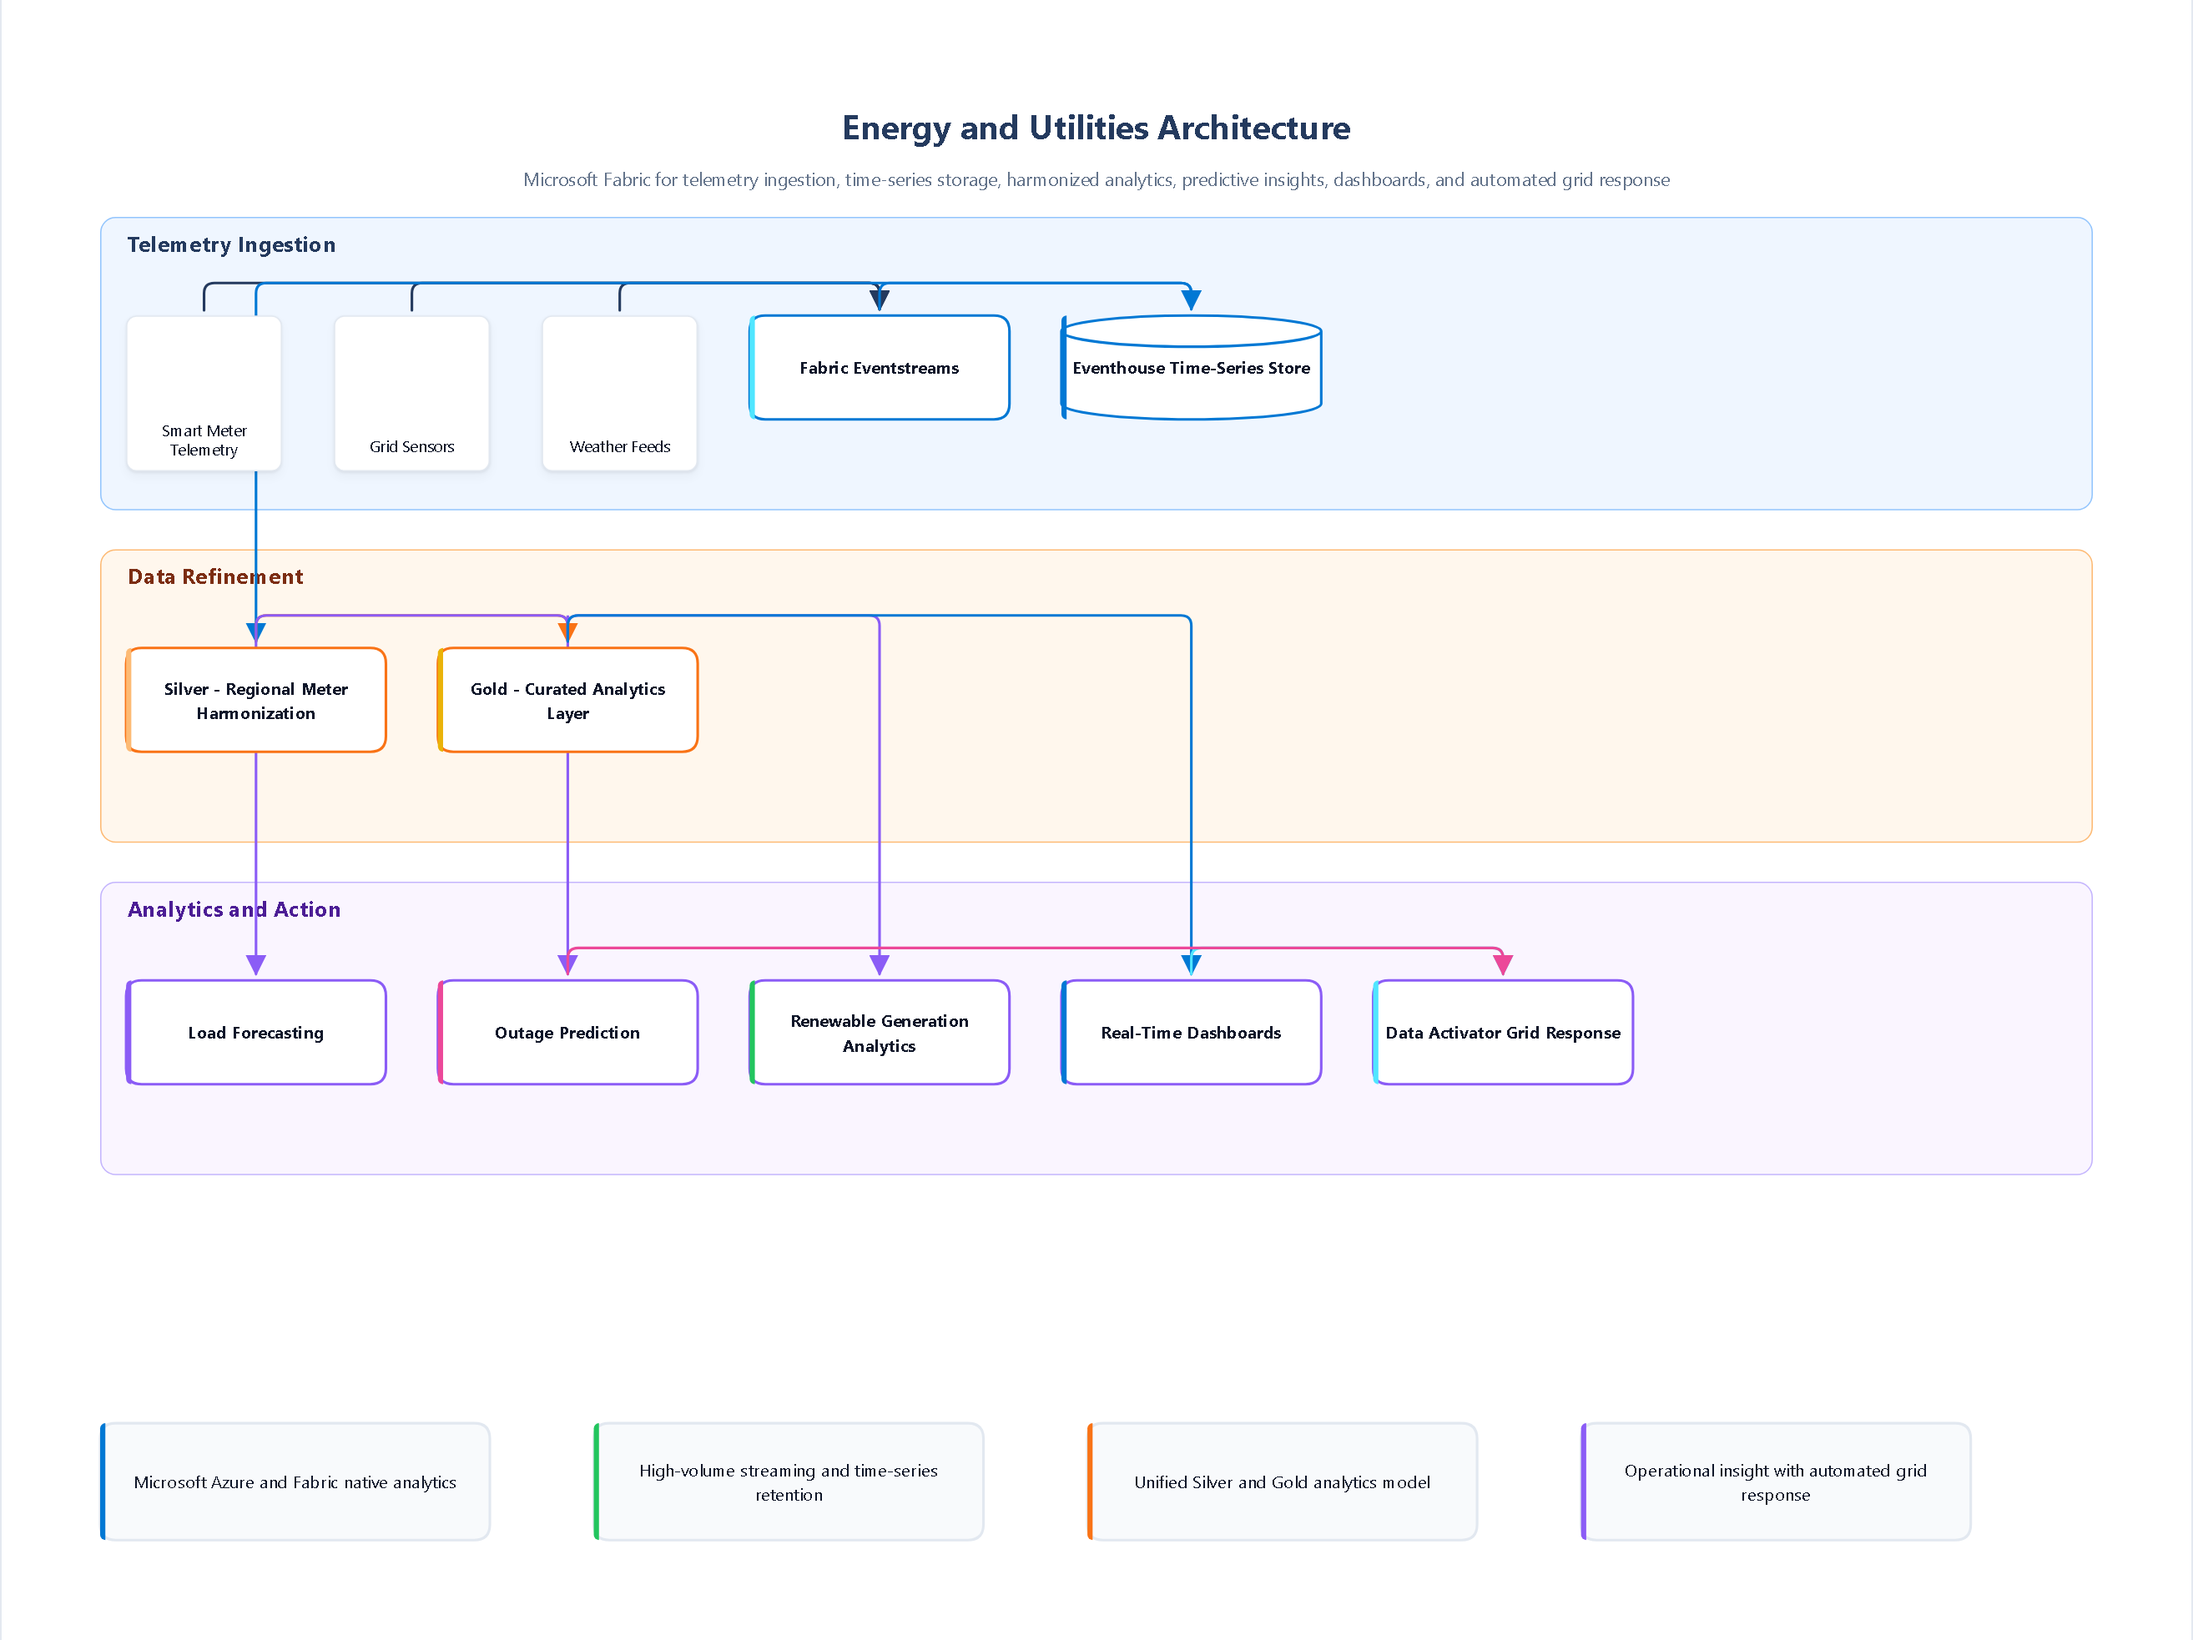
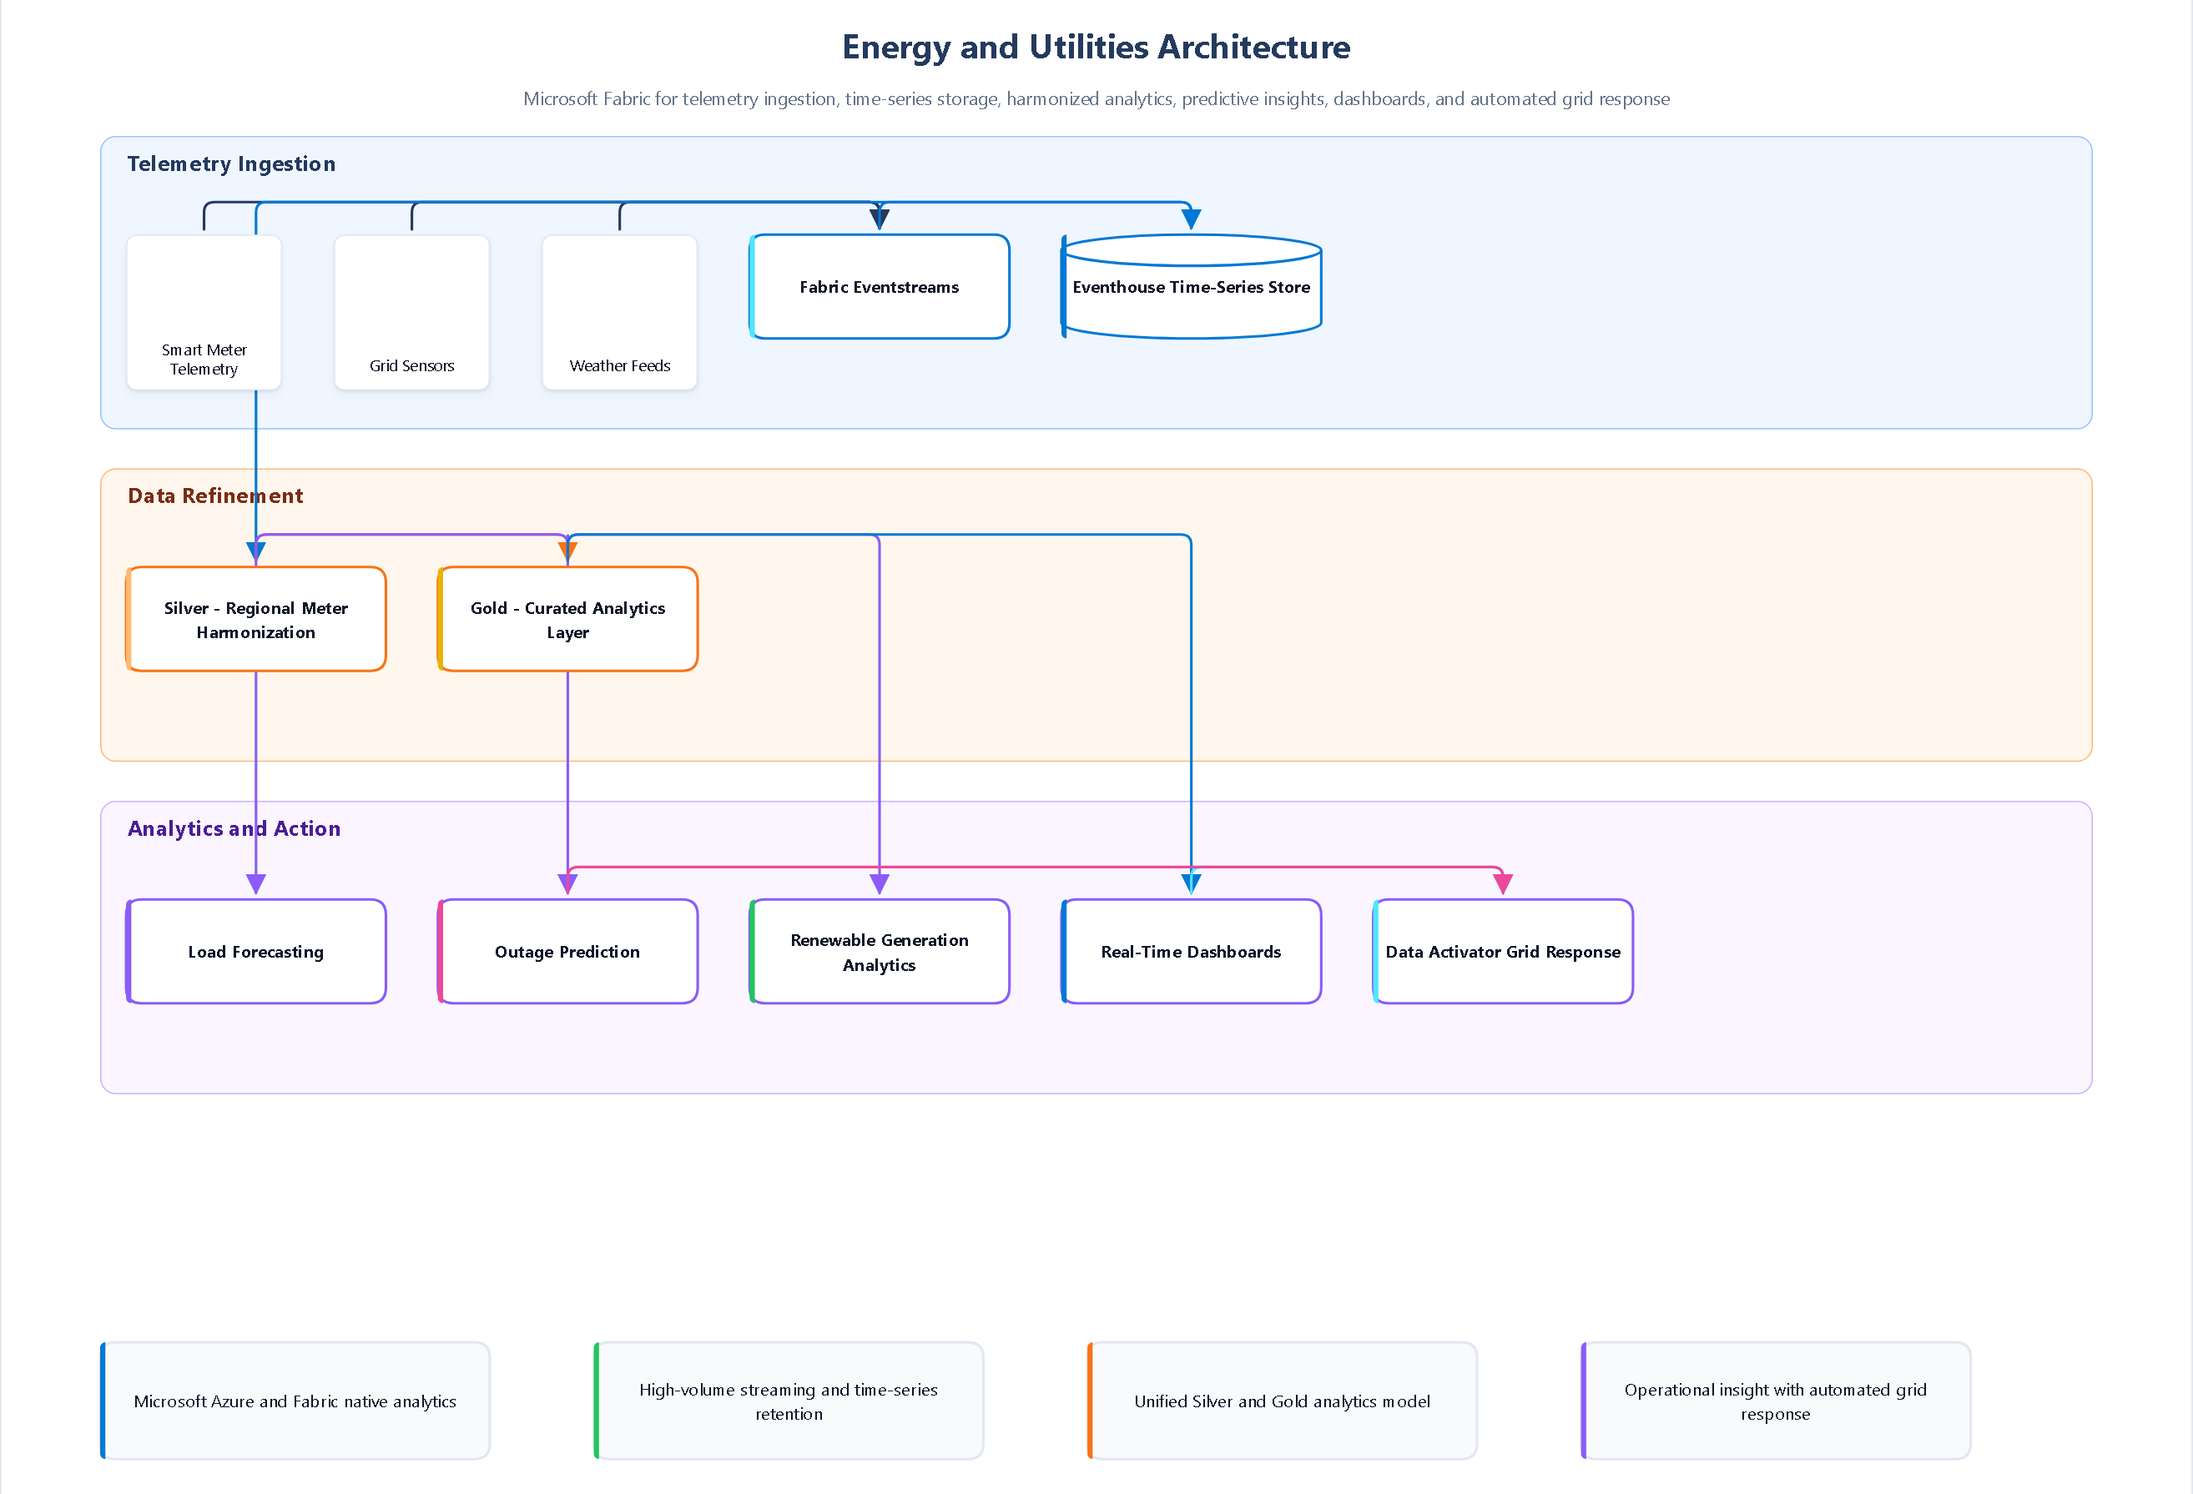
fix(docs): pull back inline architecture diagrams (LLM layouts too sparse)
User feedback after live review: the embedded atlas-diag architecture
diagrams looked poor on the rendered pages — too much vertical real
estate dominated by sparse LLM layouts (caption cards drifted far below
the main flow, zones with only 1-2 nodes, etc.).

Changes:
- Remove the inline architecture-diagram embeds from 20 pages
  (homepage, ARCHITECTURE, 5 feature pages, 4 reference-architecture
  pages, 5 industry pages, 5 notebook layer guides).
- Hero banners stay — they look clean and render well at the top of each
  landing page (home, architecture, features, use-cases, tutorials, and
  the 6 industries).
- Trim PNG whitespace (temp/atlas/trim_v2.py): each PNG had ~175px of
  trailing empty rows past the dense content; now 2628x1791 (was 1966).
- CSS: cap .architecture-diagram at max-height 560px with object-fit
  contain, and add aspect-ratio + larger shadow to .hero-banner for a
  more prominent feel.

Diagrams themselves remain in docs/assets/diagrams/ and are still
editable in atlas-diag's Library (diagram IDs in temp/atlas/manifest.json).
Re-embed individually after refining prompts or manually editing layout.

diff --git a/docs/stylesheets/extra.css b/docs/stylesheets/extra.css
@@ -11,27 +11,47 @@
 /* Hero banner (top of section index pages) */
 .hero-banner {
   width: 100%;
-  max-width: 1200px;
-  margin: 0 0 1.5rem 0;
-  border-radius: 12px;
-  box-shadow: 0 6px 24px rgba(15, 23, 42, 0.12);
+  max-width: 1280px;
+  margin: 0 0 2rem 0;
+  border-radius: 14px;
+  box-shadow: 0 10px 30px rgba(15, 23, 42, 0.18);
   display: block;
+  aspect-ratio: 1200 / 320;
+  object-fit: cover;
 }
 
-/* Architecture diagrams (inline page content) */
+/* Architecture diagrams (inline page content) — cap visual height so the
+   diagram doesn't dominate the viewport on long pages */
 .architecture-diagram {
+  max-width: 100%;
   width: 100%;
-  max-width: 1100px;
-  margin: 1rem auto;
+  max-height: 560px;
+  margin: 1rem auto 1.5rem;
   display: block;
-  border-radius: 8px;
+  border-radius: 10px;
   background: #ffffff;
-  padding: 0.5rem;
-  box-shadow: 0 2px 8px rgba(15, 23, 42, 0.08);
+  padding: 1rem;
+  box-shadow: 0 2px 10px rgba(15, 23, 42, 0.08);
+  object-fit: contain;
+  cursor: zoom-in;
 }
 
 [data-md-color-scheme="slate"] .architecture-diagram {
-  background: #f8fafc;
+  background: #ffffff;
+}
+
+/* Open diagram in new tab when clicked */
+a:has(> img.architecture-diagram) {
+  display: block;
+  text-decoration: none;
+}
+
+/* Small inline service icons (used inline with text) */
+img.service-icon {
+  width: 1.1em;
+  height: 1.1em;
+  vertical-align: -0.2em;
+  margin-right: 0.25em;
 }
 
 /* Dark mode adjustments */

diff --git a/notebooks/silver/README.md b/notebooks/silver/README.md
@@ -4,7 +4,6 @@
 
 > **Purpose**: Data cleansing, validation, deduplication, and standardization. Enforces schema contracts and business rules while maintaining referential integrity.
 
-![Silver layer transformation flow on Fabric](../../assets/diagrams/silver-layer-flow.svg){ .architecture-diagram }
 
 The Silver layer transforms raw Bronze data into cleansed, validated datasets. This layer applies data quality rules, resolves duplicates, enriches with reference data, and enforces compliance constraints (PII masking, SSN hashing).
 

diff --git a/notebooks/real-time/README.md b/notebooks/real-time/README.md
@@ -4,7 +4,6 @@
 
 > **Purpose**: Stream processing for live casino floor monitoring, real-time alerts, and immediate operational insights using Fabric Eventstreams and Eventhouse (KQL).
 
-![Real-Time Intelligence architecture on Fabric](../../assets/diagrams/real-time-intelligence-flow.svg){ .architecture-diagram }
 
 The Real-Time layer processes streaming data from slot machines, table games, and security systems. Events flow through Eventstreams for transformation and land in Eventhouse for KQL-based analytics and alerting.
 

diff --git a/notebooks/bronze/README.md b/notebooks/bronze/README.md
@@ -4,7 +4,6 @@
 
 > **Purpose**: Raw data ingestion from casino source systems with minimal transformation. Append-only landing zone preserving original data fidelity.
 
-![Bronze layer ingestion flow on Fabric](../../assets/diagrams/bronze-layer-flow.svg){ .architecture-diagram }
 
 The Bronze layer captures raw data from slot machines, player systems, financial transactions, table games, and security systems. Data arrives in its original format with only metadata enrichment (ingestion timestamp, source system, batch ID).
 

diff --git a/notebooks/gold/README.md b/notebooks/gold/README.md
@@ -4,7 +4,6 @@
 
 > **Purpose**: Business-level aggregations, KPIs, star schema models, and analytics-ready datasets optimized for Direct Lake connectivity and Power BI consumption.
 
-![Gold layer star schema on Fabric](../../assets/diagrams/gold-layer-flow.svg){ .architecture-diagram }
 
 The Gold layer transforms cleansed Silver data into business intelligence assets. This layer creates dimensional models, calculates KPIs, builds aggregated views, and prepares compliance reports for regulatory submission.
 

diff --git a/notebooks/ml/README.md b/notebooks/ml/README.md
@@ -4,7 +4,6 @@
 
 > **Purpose**: Predictive analytics, anomaly detection, and AI-powered insights for casino operations including player churn prediction and fraud detection.
 
-![ML pipeline on Fabric](../../assets/diagrams/ml-pipeline-flow.svg){ .architecture-diagram }
 
 The ML layer leverages Fabric's integrated data science capabilities to build, train, and deploy machine learning models. Models are trained on Gold layer data and predictions are written back for operational use.
 

diff --git a/docs/index.md b/docs/index.md
@@ -19,14 +19,6 @@ hide:
 
 ---
 
-## Architecture at a Glance
-
-![Microsoft Fabric medallion architecture — sources to Bronze to Silver to Gold to Power BI Direct Lake on F64 capacity with Purview](assets/diagrams/medallion-architecture.svg){ .architecture-diagram }
-
-[See the full architecture →](ARCHITECTURE.md){ .md-button }
-
----
-
 ## Three Core Paradigms
 
 This POC is built on three paradigms that define how data flows from source to insight inside Microsoft Fabric.

diff --git a/docs/ARCHITECTURE.md b/docs/ARCHITECTURE.md
@@ -4,7 +4,6 @@
 
 > 🏠 [Home](index.md) > 📚 [Docs](./) > 🏗 Architecture
 
-![Microsoft Fabric platform overview — OneLake foundation with all workloads](assets/diagrams/fabric-platform-overview.svg){ .architecture-diagram }
 
 <div align="center" markdown>
 

diff --git a/docs/industries/energy-utilities.md b/docs/industries/energy-utilities.md
@@ -4,7 +4,6 @@
 
 # ⚡ Energy & Utilities — Smart Grid Analytics & Renewable Forecasting
 
-![Energy Utilities reference architecture on Microsoft Fabric](../assets/diagrams/industry-energy-utilities.svg){ .architecture-diagram }
 
 <div align="center" markdown>
 

diff --git a/docs/industries/financial-services.md b/docs/industries/financial-services.md
@@ -4,7 +4,6 @@
 
 # 🏦 Financial Services — Fraud Detection & Risk Analytics
 
-![Financial Services reference architecture on Microsoft Fabric](../assets/diagrams/industry-financial-services.svg){ .architecture-diagram }
 
 <div align="center" markdown>
 

diff --git a/docs/industries/manufacturing.md b/docs/industries/manufacturing.md
@@ -4,7 +4,6 @@
 
 # ⚙ Manufacturing — IoT Telemetry & Predictive Maintenance
 
-![Manufacturing reference architecture on Microsoft Fabric](../assets/diagrams/industry-manufacturing.svg){ .architecture-diagram }
 
 <div align="center" markdown>
 

diff --git a/docs/reference-architecture/large-enterprise-multi-domain.md b/docs/reference-architecture/large-enterprise-multi-domain.md
@@ -2,7 +2,6 @@
 
 # 🏛 Large Enterprise Multi-Domain Reference Architecture
 
-![Large enterprise multi-domain reference](../assets/diagrams/reference-architecture-large-enterprise.svg){ .architecture-diagram }
 
 <div align="center" markdown>
 
